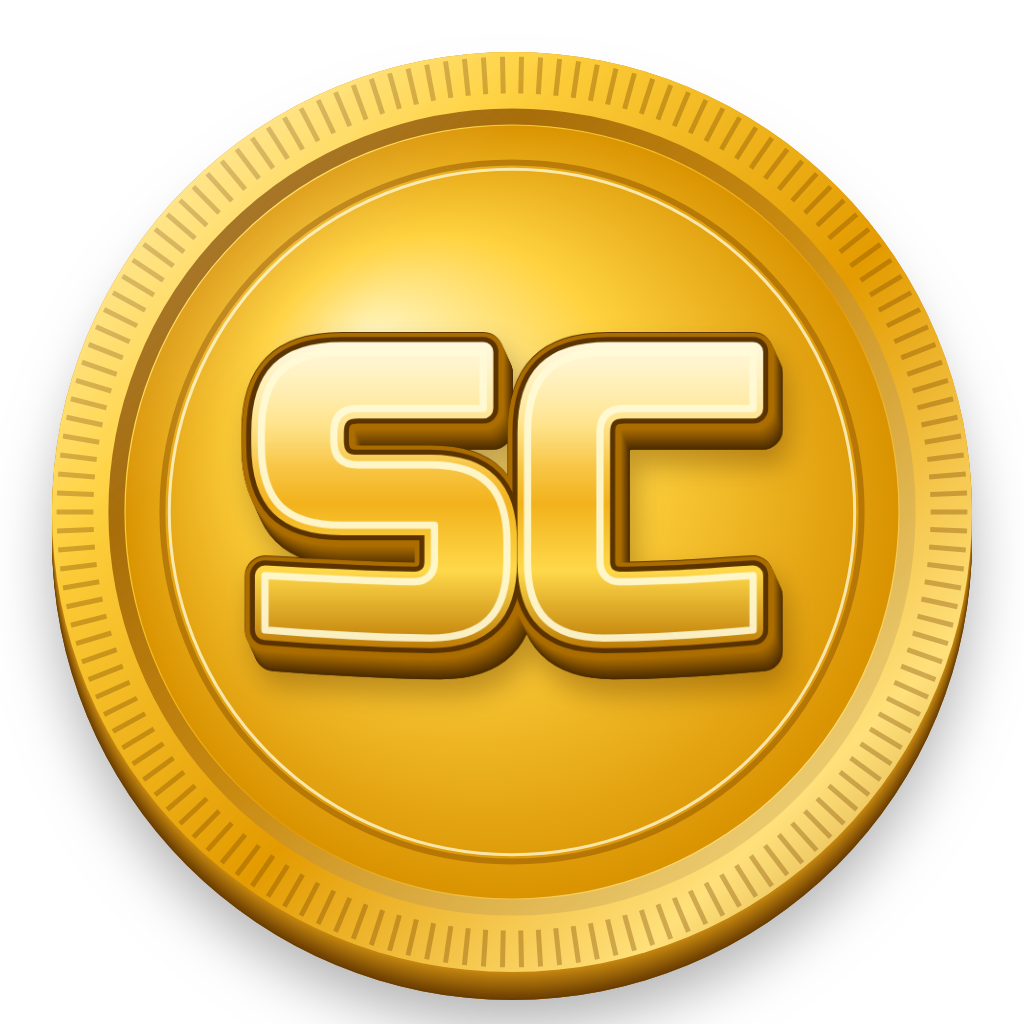
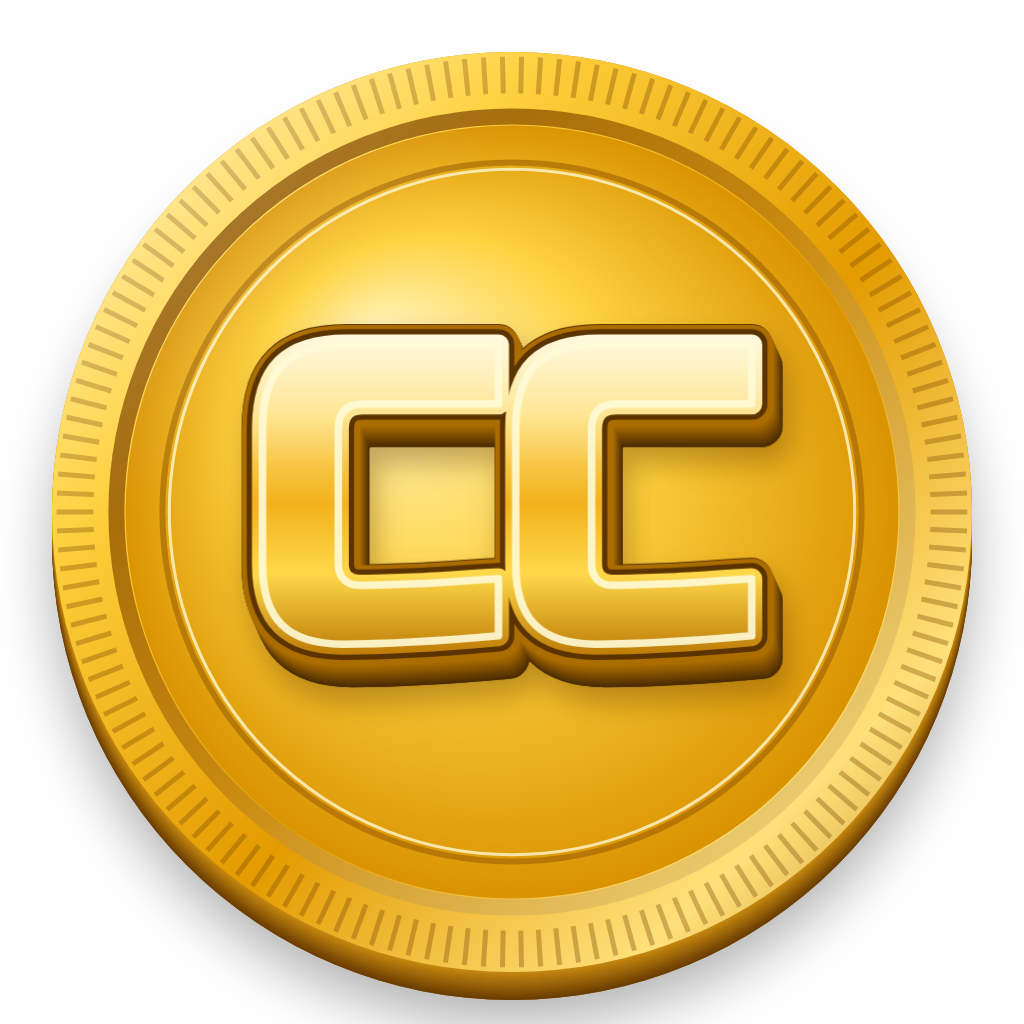
Moneda CityCoins: siglas CC en lugar de SC
Claude-Session: https://claude.ai/code/session_01DwYAqD77pap66newJ2Hoc8

Changed region(s): [[0.2188, 0.3125, 0.7812, 0.6875]]

diff --git a/branding/scripts/marca.js b/branding/scripts/marca.js
@@ -184,7 +184,7 @@ save("banner-1920x1080", banner());
 save("banner-discord-960x540", banner(960, 540));
 
 // ---------------- 4b. Moneda CityCoins ----------------
-// Pedido del dueño: moneda completamente dorada, solo con las siglas "SC" en relieve (Russo One), también doradas.
+// Pedido del dueño: moneda completamente dorada, solo con las siglas "CC" (CityCoins) en relieve (Russo One), también doradas.
 const GOLD_SC = { face: [[0, "#fff8d0"], [0.3, "#ffe07a"], [0.55, "#f2b21c"], [0.75, "#ffd84a"], [1, "#b87400"]], ext: ["#b07000", "#4a2a00"], rim: "rgba(255,250,215,.9)" };
 function coin(S = 1024) {
   const cv = createCanvas(S, S), c = cv.getContext("2d"), k = S / 1024, cx = S / 2, cy = S / 2, R = 460 * k;
@@ -209,7 +209,7 @@ function coin(S = 1024) {
   c.lineWidth = 6 * k; c.strokeStyle = "rgba(150,90,0,.55)"; c.beginPath(); c.arc(cx, cy, R * 0.76, 0, 7); c.stroke();
   c.lineWidth = 3 * k; c.strokeStyle = "rgba(255,248,210,.8)"; c.beginPath(); c.arc(cx, cy, R * 0.745, 0, 7); c.stroke();
   // siglas SC en relieve, doradas
-  const sc = wordmark([{ text: "SC", pal: GOLD_SC }], { size: 420, depth: 22, dx: 0.45, dy: 1, outline: 0.1, outlineColor: "#5a3300", skew: 0, spacing: -8, halftone: false, shadow: false });
+  const sc = wordmark([{ text: "CC", pal: GOLD_SC }], { size: 420, depth: 22, dx: 0.45, dy: 1, outline: 0.1, outlineColor: "#5a3300", skew: 0, spacing: -8, halftone: false, shadow: false });
   const w = R * 1.18, h = sc.height * w / sc.width;
   // sombra: silueta de las letras teñida y desenfocada (con shadowBlur salía un recuadro)
   // con margen alrededor: si no, el desenfoque se corta en los bordes de la imagen y deja un recuadro

diff --git a/docs/discord/registro-2026-09-27.md b/docs/discord/registro-2026-09-27.md
@@ -97,8 +97,8 @@ Se comprobó antes de borrar que no tenían mensajes. Nombre, categoría, posici
 
 ## 10. Moneda CityCoins toda dorada
 
-A pedido del dueño la moneda es **completamente dorada**, con solo las siglas **SC** en relieve (Russo One), también
-doradas. Se cambió en todos lados:
+A pedido del dueño la moneda es **completamente dorada**, con solo las siglas **CC** (CityCoins) en relieve (Russo One),
+también doradas. (Primero se hizo con "SC" por error; el dueño lo corrigió a "CC".) Se cambió en todos lados:
 - `branding/marca/citycoin.png`, `citycoin-128.png`, `emoji-citycoin.png` y los paquetes `citycoins-100/500/1000.png`.
 - Emoji `:citycoin:` reemplazado (el nuevo tiene otro ID) y actualizado en los mensajes de 📈┆actualizaciones,
   📊┆economia, 💎┆citycoins y 🐱┆emojis. La miniatura de 💎┆citycoins también es la moneda nueva.

diff --git a/branding/README.md b/branding/README.md
@@ -54,7 +54,7 @@ Probar siempre a 32 px (barra lateral de Discord).
 ## Banners y otras piezas
 
 - `marca/banner-1920x1080.png` y `marca/banner-discord-960x540.png`.
-- Tienda Tebex: moneda **CityCoins** **completamente dorada**, solo con las siglas **"SC" en relieve** (Russo One,
+- Tienda Tebex: moneda **CityCoins** **completamente dorada**, solo con las siglas **"CC" (CityCoins) en relieve** (Russo One,
   mayúsculas, también doradas). Lo pidió así el dueño: nada de rosa/rojo en la moneda. Paquetes 100 / 500 / 1000
   (`marca/citycoin*.png`, `marca/citycoins-*.png`, generados en `scripts/marca.js`). La versión anterior está en `historial/`.
 - Emojis del servidor (128 px): `marca/emoji-*.png` → `:sampcity:`, `:citycoin:`, `:samp:`, `:city:`.
